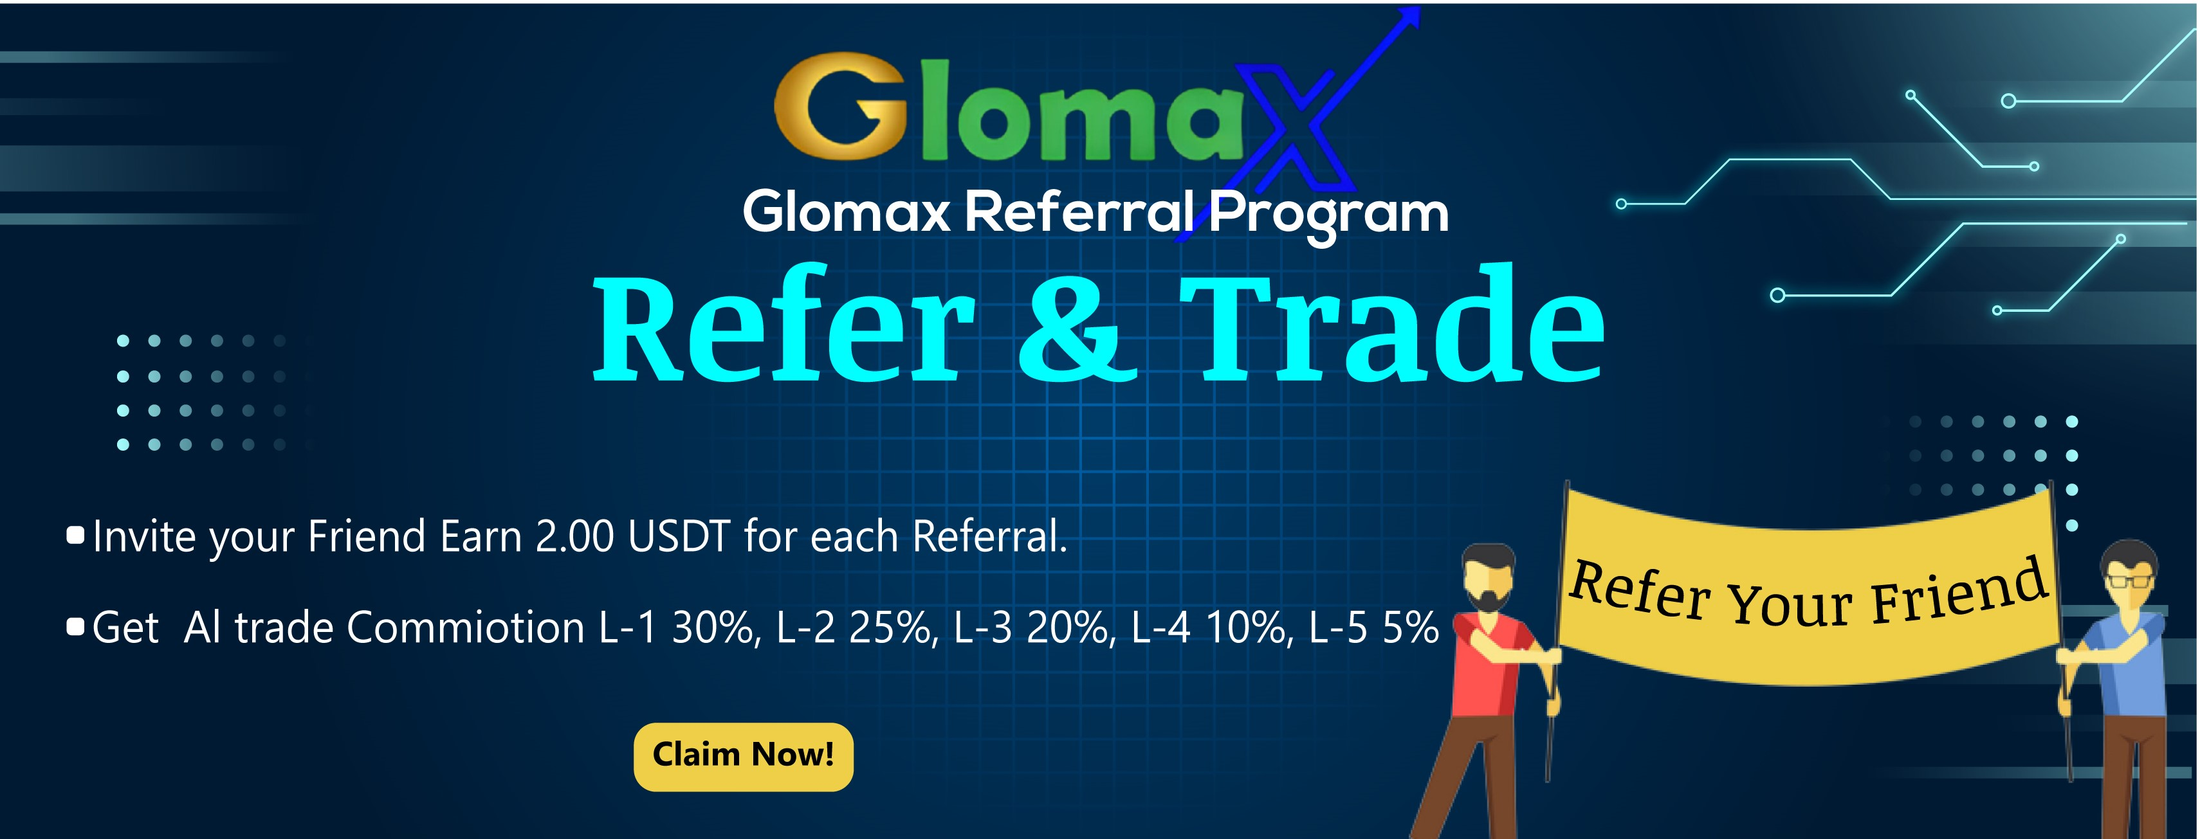
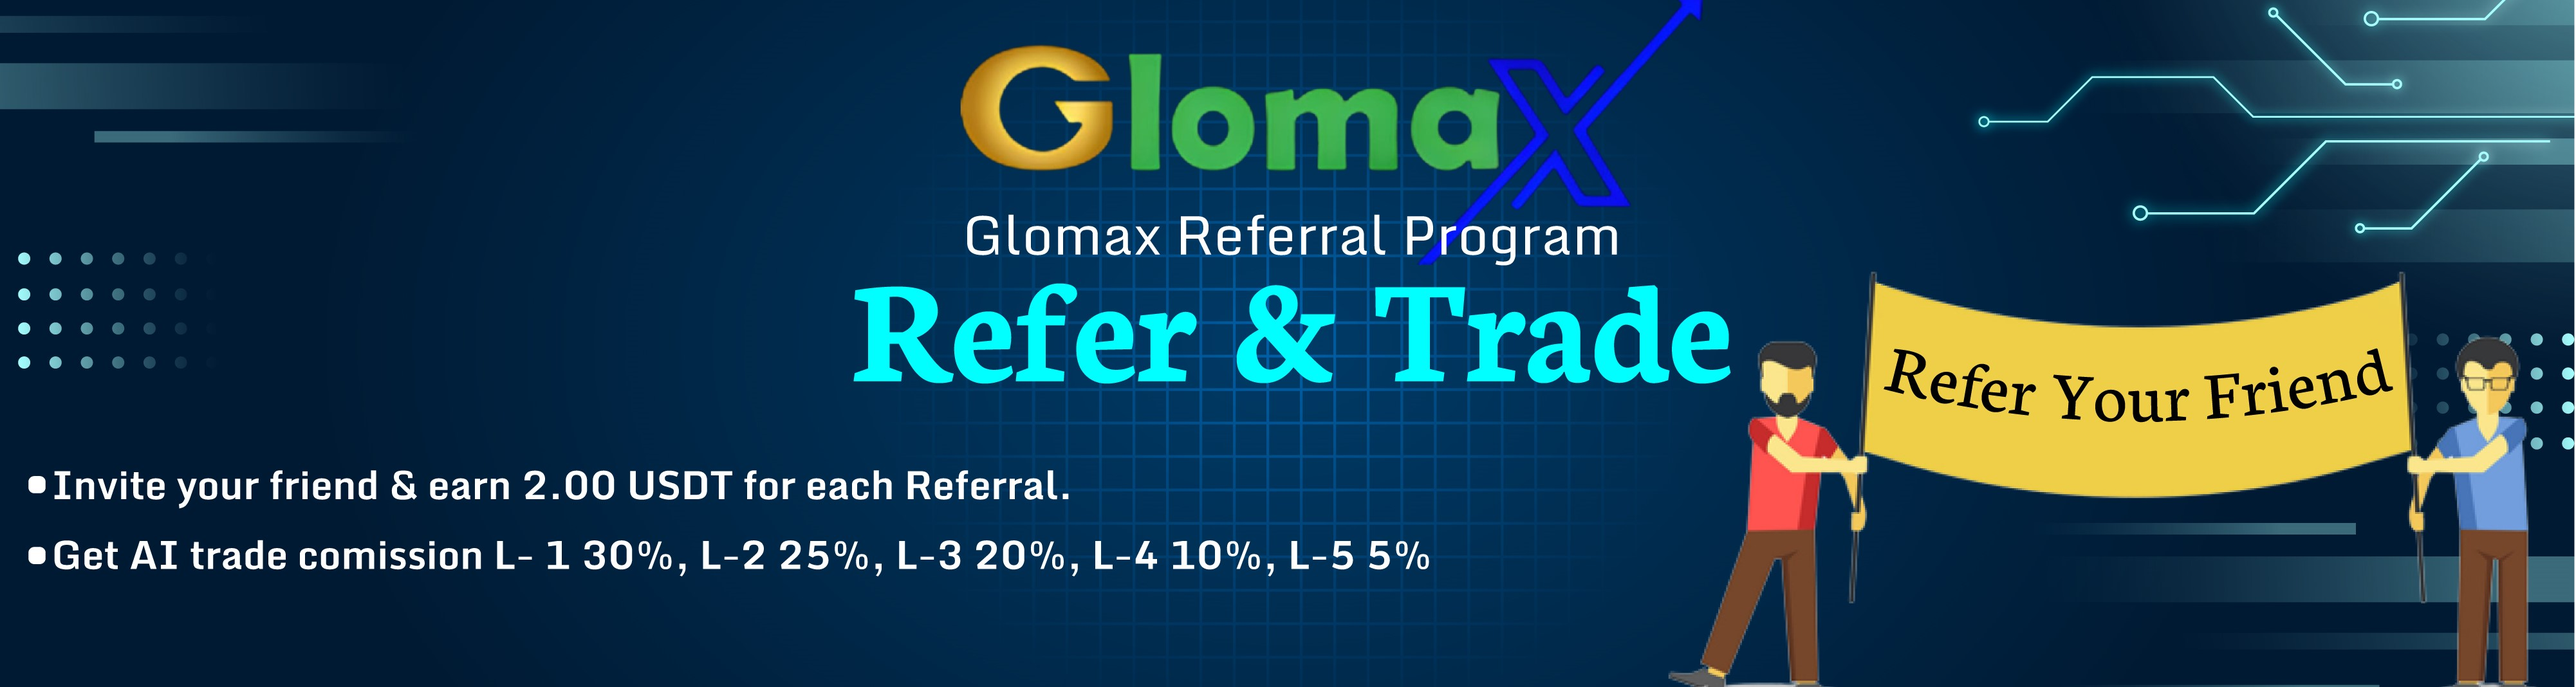
first commit

diff --git a/src/components/Withdraw/Withdraw.tsx b/src/components/Withdraw/Withdraw.tsx
@@ -71,7 +71,11 @@ const Withdraw = ({ record }: Props) => {
 						<p className='capitalize  text-[#388E3C]'>Success</p>
 					)}
 					{record?.status === 'pending' && (
-						<p className='capitalize  text-yellow-700 '>Processing</p>
+						<p className='text-yellow-700 capitalize '>Processing</p>
+					)}
+
+					{record?.status === 'rejected' && (
+						<p className='text-red-500 capitalize'>Rejected</p>
 					)}
 				</li>
 			</div>

diff --git a/src/Layout/Header/UserInfo.tsx b/src/Layout/Header/UserInfo.tsx
@@ -3,9 +3,7 @@ import { IconButton, Typography } from '@material-tailwind/react';
 import React from 'react';
 import { useSelector } from 'react-redux';
 import { XMarkIcon } from '@heroicons/react/24/outline';
-import { type } from 'os';
 import CopyToClipboard from '@/global/CopyToClipboard';
-import Image from 'next/image';
 
 type UserInfoProps = {
 	closeDrawerRight: () => void;

diff --git a/src/components/Withdraw/WithdrawRecords.tsx b/src/components/Withdraw/WithdrawRecords.tsx
@@ -126,6 +126,12 @@ const WithdrawRecords = ({ records }: any) => {
 															Processing
 														</p>
 													)}
+
+													{status === 'rejected' && (
+														<p className='text-center text-red-500 capitalize'>
+															Rejected
+														</p>
+													)}
 												</li>
 
 												<li className='flex items-center justify-end '>

diff --git a/src/components/Home/Carousel.tsx b/src/components/Home/Carousel.tsx
@@ -17,7 +17,7 @@ export default class SimpleSlider extends Component {
 			'./images/carousel/ai-grid.png',
 			'./images/carousel/ai-robot.png',
 			'./images/carousel/trading.png',
-			'./images/carousel/refarel.png',
+			'./images/carousel/bg1.jpg',
 		];
 		return (
 			<div className=' bg-gray-900 px-2 w-[95%] mx-auto   py-4'>

diff --git a/src/Layout/Header/Header.tsx b/src/Layout/Header/Header.tsx
@@ -39,6 +39,7 @@ import {
 } from '@/features/notify/notificationApi';
 import socketIOClient from 'socket.io-client';
 import ioBaseUrl from '@/config/ioBaseUrl';
+
 export default function Header() {
 	const token = Cookies.get('token');
 	const {

diff --git a/src/pages/dashboard.tsx b/src/pages/dashboard.tsx
@@ -8,7 +8,7 @@ import { useSelector } from 'react-redux';
 
 const dashboard = () => {
 	const { user } = useSelector((state: any) => state.auth);
-	useLoadUserQuery();
+	// useLoadUserQuery();
 	return (
 		<UserLayout>
 			<div>
